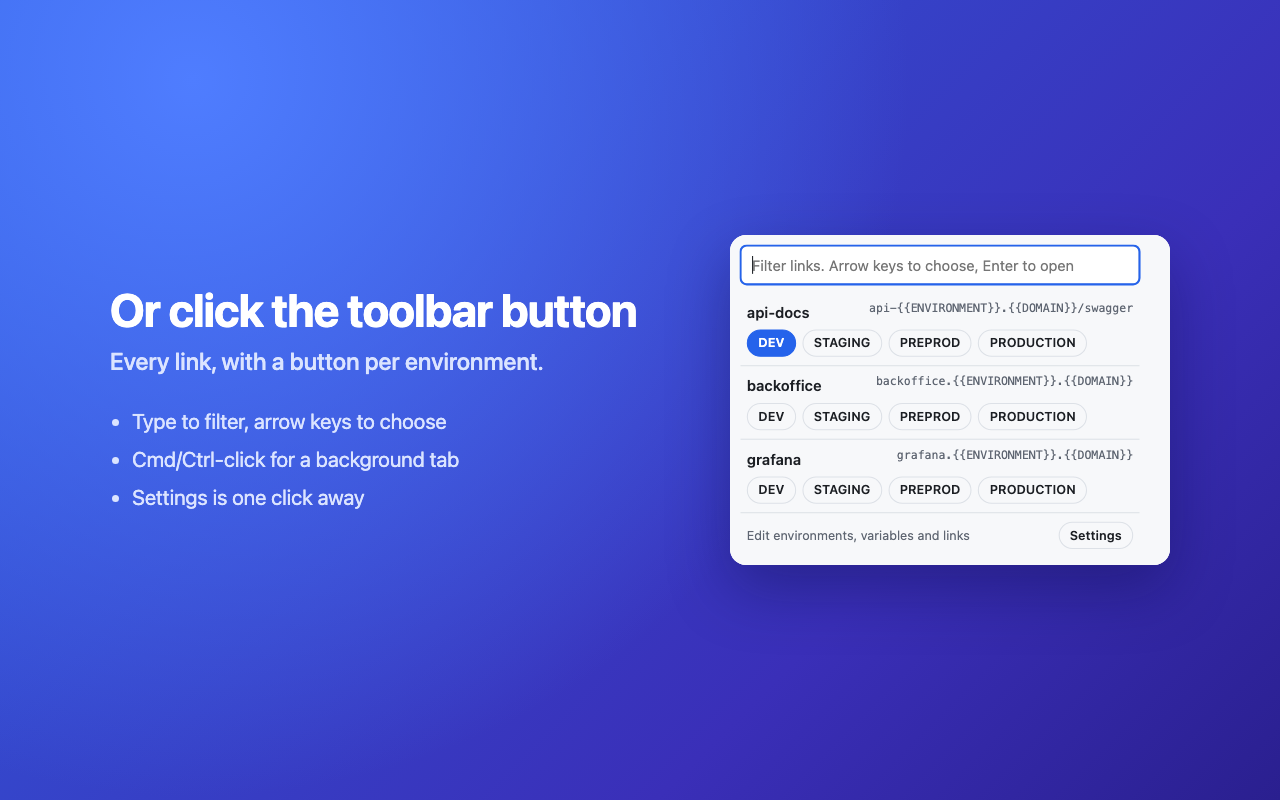
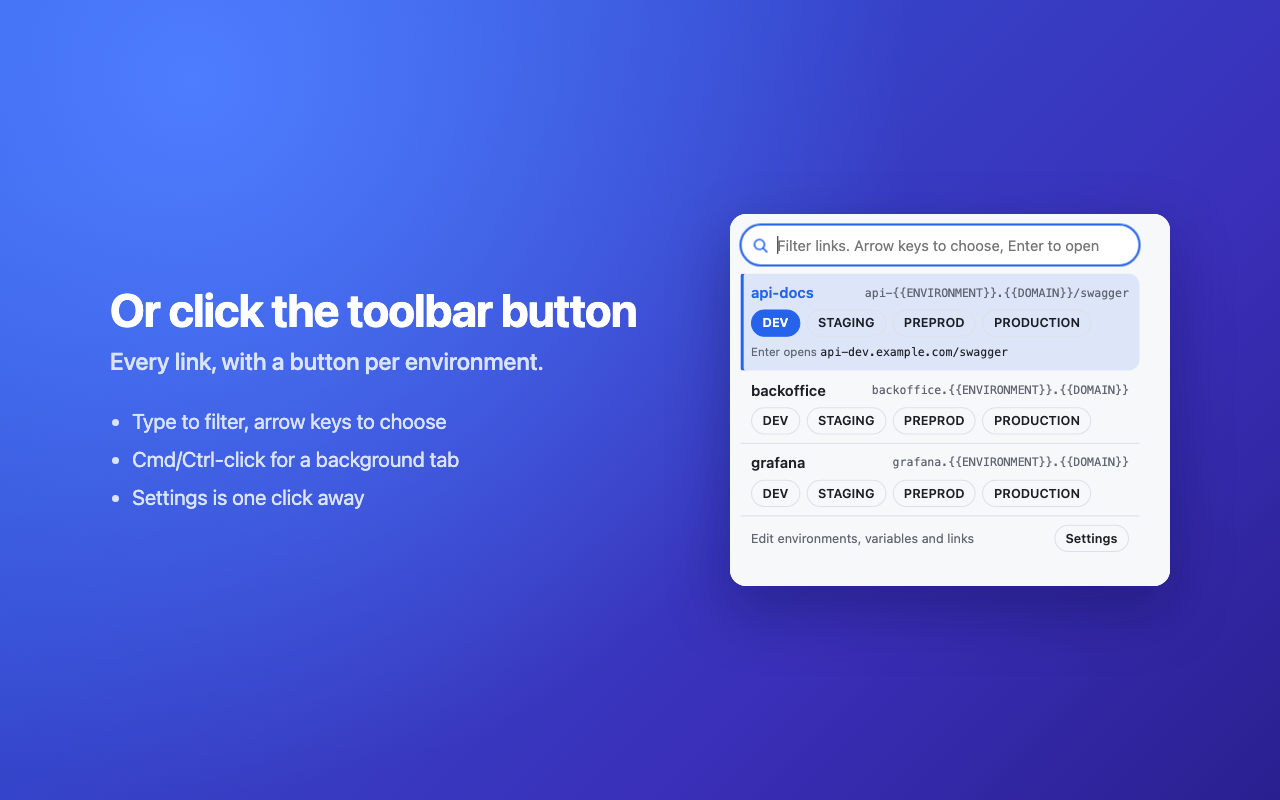
Make the selected link in the toolbar list obvious
- Highlight the whole selected row and show the URL Enter will open.
- Pill-shaped search bar with a search icon; vertically centre templates.
- Rename the settings section to "Import / Export".
- Re-render store screenshot 4.

Changed region(s): [[0.5625, 0.25, 0.9375, 0.5312], [0.5625, 0.6562, 0.9375, 0.75], [0.5625, 0.5625, 0.875, 0.625]]

diff --git a/src/popup.js b/src/popup.js
@@ -32,10 +32,10 @@ let rows = [];
 let sel = { row: 0, col: 0 };
 let wantCol = 0; // the environment column to return to after passing a shorter row, e.g. Settings
 
-function item(node, activate) {
+function item(node, activate, url = "") {
   node.addEventListener("click", (e) => { e.preventDefault(); activate(e); });
   node.addEventListener("auxclick", (e) => { if (e.button === 1) { e.preventDefault(); activate(e); } });
-  return { node, activate };
+  return { node, activate, url };
 }
 
 function select(row, col) {
@@ -43,9 +43,17 @@ function select(row, col) {
   sel.row = Math.max(0, Math.min(row, rows.length - 1));
   sel.col = Math.max(0, Math.min(col, rows[sel.row].length - 1));
   rows.flat().forEach(({ node }) => node.classList.remove("selected"));
-  const { node } = rows[sel.row][sel.col];
+  list.querySelectorAll("li.selected-row").forEach((li) => {
+    li.classList.remove("selected-row");
+    li.querySelector(".target")?.replaceChildren();
+  });
+  const { node, url } = rows[sel.row][sel.col];
   node.classList.add("selected");
-  node.scrollIntoView({ block: "nearest" });
+  // Highlight the whole row and spell out where Enter will go.
+  const li = node.closest("li");
+  li.classList.add("selected-row");
+  if (url) li.querySelector(".target")?.replaceChildren("Enter opens ", el("span", { className: "url" }, displayUrl(url)));
+  li.scrollIntoView({ block: "nearest" });
 }
 
 function render() {
@@ -70,14 +78,16 @@ function render() {
           title: r.missing.length ? `${displayUrl(r.url)}\nMissing: ${r.missing.join(", ")}` : displayUrl(r.url),
           className: r.missing.length ? "warn" : "",
         }, r.env.name),
-        (e) => open(r.url, e)
+        (e) => open(r.url, e),
+        r.url
       )
     );
     rows.push(chips);
     list.append(
       el("li", {},
         el("div", { className: "link-name" }, el("span", { className: "key" }, link.key, link.source ? el("span", { className: "tag", title: `Shared from ${link.source}` }, "shared") : ""), el("small", { title: link.template }, link.template)),
-        el("div", { className: "envs" }, ...chips.map((c) => c.node))
+        el("div", { className: "envs" }, ...chips.map((c) => c.node)),
+        el("div", { className: "target", "aria-live": "polite" })
       )
     );
   }

diff --git a/src/popup.css b/src/popup.css
@@ -1,9 +1,24 @@
 body.popup { width: 400px; max-height: 580px; padding: 10px; overflow-y: auto; }
-#filter { width: 100%; padding: 7px 10px; margin-bottom: 8px; }
+.search { position: relative; display: block; margin-bottom: 8px; }
+.search-icon { position: absolute; left: 11px; top: 50%; transform: translateY(-50%); color: var(--muted); pointer-events: none; }
+#filter { width: 100%; padding: 8px 14px 8px 34px; border-radius: 100px; }
+#filter:focus { outline-offset: -1px; }
+.search:focus-within .search-icon { color: var(--accent); }
 #list { list-style: none; margin: 0; padding: 0; }
-#list li { padding: 8px 6px; border-top: 1px solid var(--border); }
+#list li { padding: 8px 10px; border-top: 1px solid var(--border); }
+#list li.selected-row {
+  background: color-mix(in srgb, var(--accent) 12%, transparent);
+  box-shadow: inset 3px 0 0 var(--accent);
+  border-radius: 2px 10px 10px 2px;
+  border-top-color: transparent;
+}
+#list li.selected-row + li { border-top-color: transparent; }
+#list li.selected-row .key { color: var(--accent); }
+.target { font-size: 11px; color: var(--muted); margin-top: 6px; overflow: hidden; text-overflow: ellipsis; white-space: nowrap; }
+.target:empty { display: none; }
+.target .url { font-family: ui-monospace, SFMono-Regular, Menlo, monospace; color: var(--text); }
 #list li:first-child { border-top: 0; }
-.link-name { font-weight: 600; margin-bottom: 6px; display: flex; justify-content: space-between; gap: 8px; }
+.link-name { font-weight: 600; margin-bottom: 6px; display: flex; justify-content: space-between; align-items: center; gap: 8px; line-height: 20px; }
 .link-name .key { flex: none; white-space: nowrap; display: flex; gap: 6px; align-items: center; }
 .link-name small { color: var(--muted); font-weight: 400; font: 11px ui-monospace, SFMono-Regular, Menlo, monospace;
   overflow: hidden; text-overflow: ellipsis; white-space: nowrap; }

diff --git a/src/popup.html b/src/popup.html
@@ -7,7 +7,13 @@
   <link rel="stylesheet" href="popup.css">
 </head>
 <body class="popup">
-  <input id="filter" type="search" placeholder="Filter links. Arrow keys to choose, Enter to open" aria-label="Filter links" autofocus>
+  <label class="search">
+    <svg class="search-icon" viewBox="0 0 16 16" width="16" height="16" aria-hidden="true">
+      <circle cx="7" cy="7" r="4.75" fill="none" stroke="currentColor" stroke-width="1.6"/>
+      <path d="M10.6 10.6 14 14" stroke="currentColor" stroke-width="1.6" stroke-linecap="round"/>
+    </svg>
+    <input id="filter" type="search" placeholder="Filter links. Arrow keys to choose, Enter to open" aria-label="Filter links" autofocus>
+  </label>
   <ul id="list" role="list"></ul>
   <script type="module" src="popup.js"></script>
 </body>

diff --git a/store/source/screenshot-4.html b/store/source/screenshot-4.html
@@ -1,6 +1,6 @@
 <!--size:1280x800--><html><head><style>{{CSS}}
 .shot { display: grid; grid-template-columns: 1fr 440px; align-items: center; gap: 70px; padding: 0 110px; }
-.frame { height: 330px; border-radius: 16px; overflow: hidden; box-shadow: 0 24px 60px rgba(10,10,60,.35); background: #fff; }
+.frame { height: 372px; border-radius: 16px; overflow: hidden; box-shadow: 0 24px 60px rgba(10,10,60,.35); background: #fff; }
 .frame iframe { border: 0; width: 420px; height: 420px; transform: scale(1.05); transform-origin: 0 0; }
 .shot ul { margin-top: 28px; padding-left: 22px; font-size: 21px; color: #dbe4ff; line-height: 1.8; }
 </style></head><body class="shot">

diff --git a/src/options.html b/src/options.html
@@ -120,7 +120,7 @@
     </section>
 
     <section>
-      <h2>Import / export</h2>
+      <h2>Import / Export</h2>
       <p class="muted">Save your setup as a JSON file, then import it from the file or by pasting its JSON below. Access tokens are never included.</p>
       <textarea id="json" rows="10" spellcheck="false" aria-label="Configuration JSON to import"
         placeholder="Paste exported JSON here to import it"></textarea>

diff --git a/README.md b/README.md
@@ -67,7 +67,7 @@ Then click reload on the extension in `chrome://extensions`.
 
 - **Variables**: a grid with one row per environment and one column per variable, so it grows downwards as you add environments. The **Default** row applies to any environment that leaves its cell blank, so `DOMAIN` only has to be set once.
 - **Links**: a name (what you type) and a template such as `backoffice.{{ENVIRONMENT}}.{{DOMAIN}}`. `https://` is added when no scheme is given. Expand a link to preview each environment's URL and to override it for one environment, e.g. production as `backoffice.{{DOMAIN}}`.
-- **Import / export**: **Export to file** saves your settings as a JSON file (without access tokens). Load it back with **Import from file**, or paste its JSON into the box and click **Import from text**.
+- **Import / Export**: **Export to file** saves your settings as a JSON file (without access tokens). Load it back with **Import from file**, or paste its JSON into the box and click **Import from text**.
 
 ## Share links with your team
 
